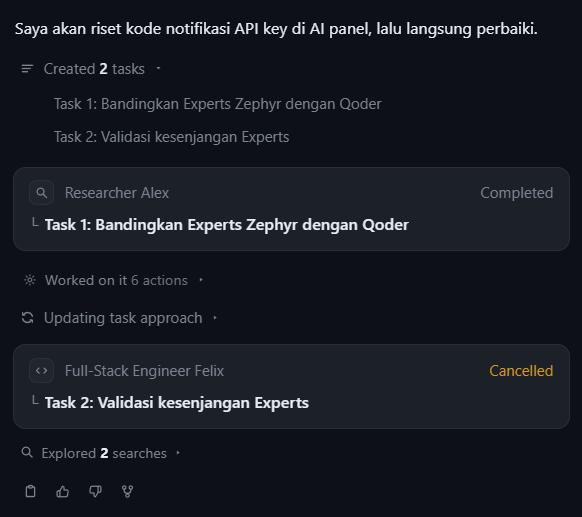
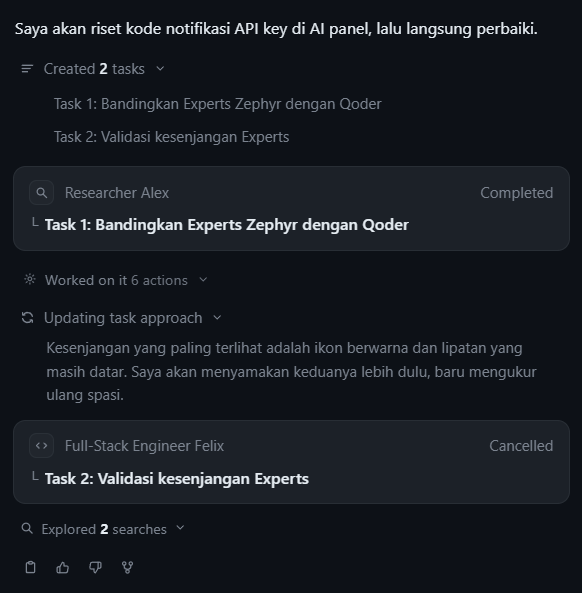
chore(experts): regenerasi indeks fakta/UI + bukti side-by-side babak 2
gen-fakta-zephyr.mjs (indeks menyusut label/permukaan berubah), potret
app-creating & app-chatfull, banding 6 pasangan (termasuk 2 referensi
1 Nov), LAPORAN.md babak 2.

diff --git a/src/lib/zephyrIndeks.ts b/src/lib/zephyrIndeks.ts
@@ -1,6 +1,6 @@
 /* BERKAS HASIL GENERATE - jangan disunting tangan.
- * Dihasilkan oleh scripts/gen-fakta-zephyr.mjs. Isinya 7549 entri
- * (bridge=1, dokumen=104, ekstensi=21, kode=553, label=3233, layar=3019, menu=130, panel=23, perintah=192, pintasan=64, port=4, seksi=30, setelan=130, tool=45).
+ * Dihasilkan oleh scripts/gen-fakta-zephyr.mjs. Isinya 7548 entri
+ * (bridge=1, dokumen=104, ekstensi=21, kode=553, label=3233, layar=3018, menu=130, panel=23, perintah=192, pintasan=64, port=4, seksi=30, setelan=130, tool=45).
  *
  * Kenapa ada: pertanyaan soal Zephyr sendiri ("label tombol ini apa", "perintah
  * itu id-nya apa", "fitur X di berkas mana") tidak boleh dijawab dari ingatan
@@ -12,7 +12,7 @@
  * Kenapa bukan grep: aplikasi yang dipasang user tidak membawa folder sumbernya,
  * jadi pencarian harus jalan dari data yang IKUT BUNDEL - bukan dari disk user.
  *
- * Versi app: 1.1.15 · hash sumber: b108ff25bfa168bf
+ * Versi app: 1.1.15 · hash sumber: 7985eb1af26dc86c
  * Hasilkan ulang: node scripts/gen-fakta-zephyr.mjs
  * Periksa sinkron: node scripts/gen-fakta-zephyr.mjs --check
  */
@@ -32,7 +32,7 @@ export const FAKTA_KATEGORI: readonly FaktaKategori[] = ['bridge', 'dokumen', 'e
    tidak terbaca sama saja dengan tidak ada cap. Angka berkas/entri yang juga
    dilaporkan --print-cakupan bisa diturunkan dari artefak yang sama:
    FAKTA_HASH_BERKAS.length (berkas) dan FAKTA_INDEKS.length (entri) di bawah. */
-export const FAKTA_VERSI = { aplikasi: '1.1.15', hashSumber: 'b108ff25bfa168bf' } as const;
+export const FAKTA_VERSI = { aplikasi: '1.1.15', hashSumber: '7985eb1af26dc86c' } as const;
 
 /** Berkas (nama relatif, urut) yang isinya masuk hashSumber, plus resep
  *  hitungnya. Dengan ini cap bisa DIHITUNG ULANG dari luar generator - di mesin
@@ -541,7 +541,7 @@ export const FAKTA_INDEKS: readonly FaktaEntri[] = [
   ["kode","src/components/ai/AskUserCard.tsx","328 baris · tanpa ekspor"],
   ["kode","src/components/ai/BrowserContextChip.tsx","88 baris · tanpa ekspor"],
   ["kode","src/components/ai/ChatHeadActions.tsx","213 baris · tanpa ekspor"],
-  ["kode","src/components/ai/ChatMessage.tsx","2014 baris · tanpa ekspor"],
+  ["kode","src/components/ai/ChatMessage.tsx","2026 baris · tanpa ekspor"],
   ["kode","src/components/ai/ChatSettingsPage.tsx","1447 baris · tanpa ekspor"],
   ["kode","src/components/ai/ChatStamp.tsx","139 baris · ekspor: jamSekarang, labelTanggal, DayDivider, MsgTime"],
   ["kode","src/components/ai/ClearChatsDialog.tsx","89 baris · tanpa ekspor"],
@@ -563,14 +563,14 @@ export const FAKTA_INDEKS: readonly FaktaEntri[] = [
   ["kode","src/components/ai/EditorKunci.tsx","102 baris · ekspor: EditorKunci"],
   ["kode","src/components/ai/ExpertsCanvas.tsx","424 baris · tanpa ekspor"],
   ["kode","src/components/ai/ExpertsPlanCard.tsx","53 baris · tanpa ekspor"],
-  ["kode","src/components/ai/ExpertsTaskTab.tsx","239 baris · tanpa ekspor"],
-  ["kode","src/components/ai/ExpertsTimeline.tsx","494 baris · tanpa ekspor"],
+  ["kode","src/components/ai/ExpertsTaskTab.tsx","248 baris · tanpa ekspor"],
+  ["kode","src/components/ai/ExpertsTimeline.tsx","510 baris · tanpa ekspor"],
   ["kode","src/components/ai/FileIkon.tsx","47 baris · tanpa ekspor"],
   ["kode","src/components/ai/IkonAgen.tsx","55 baris · One renderer for every agent mark. · ekspor: IkonAgen, IkonAgenId"],
   ["kode","src/components/ai/JobStrips.tsx","167 baris · The two job strips that sit between the transcript and the composer: the · ekspor: LoopStrip, GoalStrip"],
   ["kode","src/components/ai/KartuAntrean.tsx","248 baris · tanpa ekspor"],
-  ["kode","src/components/ai/KartuAntreanExperts.tsx","104 baris · tanpa ekspor"],
-  ["kode","src/components/ai/KartuProgresExperts.tsx","242 baris · tanpa ekspor"],
+  ["kode","src/components/ai/KartuAntreanExperts.tsx","105 baris · tanpa ekspor"],
+  ["kode","src/components/ai/KartuProgresExperts.tsx","245 baris · tanpa ekspor"],
   ["kode","src/components/ai/KartuTodos.tsx","83 baris · tanpa ekspor"],
   ["kode","src/components/ai/Lightbox.tsx","91 baris · tanpa ekspor"],
   ["kode","src/components/ai/ModeMenu.tsx","691 baris · ekspor: ModeMenu, PermissionMenu, ReasoningMenu, TierMenu"],
@@ -592,7 +592,7 @@ export const FAKTA_INDEKS: readonly FaktaEntri[] = [
   ["kode","src/components/ai/ToolGatePanel.tsx","357 baris · tanpa ekspor"],
   ["kode","src/components/ai/UpdateBtn.tsx","196 baris · tanpa ekspor"],
   ["kode","src/components/ai/claudeCodeUi.tsx","831 baris · ekspor: toolGlyph, toolKind, ikonSasaran, IkonBerkas, imageOutput, unifiedFromHalves, looksLikeUnified, halvesFromUnified, DIFF_PEEK, pairForSplit, EditDiff, diffStat, ToolRowProps, ToolRow"],
-  ["kode","src/components/ai/expertsBuka.tsx","253 baris · Util UI bersama untuk Experts Mode: buka tab tugas + label status. · ekspor: bukaTabTugas, bukaCanvas, statusTugas, IkonAhli, JenisLangkah, jenisLangkah, labelLangkah, IkonLangkah, rentangBaca, IkonCentang, durasiLangkah, jumlahHasil"],
+  ["kode","src/components/ai/expertsBuka.tsx","276 baris · Util UI bersama untuk Experts Mode: buka tab tugas + label status. · ekspor: bukaTabTugas, bukaCanvas, statusTugas, IkonAhli, JenisLangkah, jenisLangkah, labelLangkah, IkonLangkah, rentangBaca, IkonCentang, IkonCaret, durasiLangkah, jumlahHasil"],
   ["kode","src/components/api/ApiClientView.tsx","335 baris · tanpa ekspor"],
   ["kode","src/components/debug/BreakpointOptionsDialog.tsx","149 baris · tanpa ekspor"],
   ["kode","src/components/debug/DebugToolbar.tsx","71 baris · tanpa ekspor"],
@@ -4636,7 +4636,7 @@ export const FAKTA_INDEKS: readonly FaktaEntri[] = [
   ["layar","Experts","label/label tanpa kamus di layar · dirender 2 berkas: src/components/ai/ModeMenu.tsx, src/components/settings/AgcExperts.tsx"],
   ["layar","ExpertsCanvas","src/components/ai/ExpertsCanvas.tsx · 7 label: Done, Fit view, No Experts run yet — pick “Experts” in the composer and give the team a goal., Orchestrating expert tasks, Reset view, Zoom in, Zoom out · 1 data-testid: experts-canvas"],
   ["layar","ExpertsPlanCard","src/components/ai/ExpertsPlanCard.tsx · 1 data-testid: experts-plan"],
-  ["layar","ExpertsTaskTab","src/components/ai/ExpertsTaskTab.tsx · 5 label: Brief, Report, This report was shortened when the run was saved (2,000 characters). The full text only lived in this session., This task no longer has a live run or a stored snapshot., Working… · 3 data-testid: experts-tasktab, experts-tasktab-laporan, experts-tasktab-pendek · teks: Ran in terminal"],
+  ["layar","ExpertsTaskTab","src/components/ai/ExpertsTaskTab.tsx · 4 label: Brief, This report was shortened when the run was saved (2,000 characters). The full text only lived in this session., This task no longer has a live run or a stored snapshot., Working… · 3 data-testid: experts-tasktab, experts-tasktab-laporan, experts-tasktab-pendek · teks: Ran in terminal"],
   ["layar","ExpertsTimeline","src/components/ai/ExpertsTimeline.tsx · 15 label: Applied, Bad result, Changed Files, Copy summary, Created, Explored, Fork this run into a new chat, Good result, No tool steps recorded, Reactions, Worked on it, actions, searches, tasks, tool steps · 4 data-testid: experts-files, experts-timeline, experts-worked-on, experts-worked-on-isi"],
   ["layar","Explore Customizations","label/label tanpa kamus di layar · dirender 1 berkas: src/components/settings/AgentCustomPage.tsx"],
   ["layar","Explored","label/label tanpa kamus di layar · dirender 1 berkas: src/components/ai/ExpertsTimeline.tsx"],
@@ -5038,7 +5038,6 @@ export const FAKTA_INDEKS: readonly FaktaEntri[] = [
   ["layar","Rename Symbol","aria-label di layar · dirender 1 berkas: src/components/editor/LspOverlay.tsx"],
   ["layar","Rename Tab","teks elemen di layar · dirender 1 berkas: src/components/terminal/TerminalTabs.tsx"],
   ["layar","Replace all","teks elemen di layar · dirender 1 berkas: src/components/editor/FindBar.tsx"],
-  ["layar","Report","label/label tanpa kamus di layar · dirender 1 berkas: src/components/ai/ExpertsTaskTab.tsx"],
   ["layar","Repository","label/label tanpa kamus di layar · dirender 1 berkas: src/components/scm/SourceControlPanel.tsx"],
   ["layar","Requests served","teks elemen di layar · dirender 1 berkas: src/components/settings/McpPanel.tsx"],
   ["layar","Reset now","teks elemen di layar · dirender 1 berkas: src/components/settings/SettingsNav.tsx"],

diff --git a/LAPORAN.md b/LAPORAN.md
@@ -7,6 +7,84 @@ apa yang **masih berbeda**, bukan klaim "sudah sama".
 
 ---
 
+## 0.1. Babak 2 — 2 Nov 2026 (sesi ini)
+
+Lanjutan atas 11 poin yang babak pertama selesaikan. Babak ini menutup sisa
+§3 babak pertama dan menyeterukan permukaan ke **referensi baru 1 Nov**
+(`Screenshot 2026-11-01 035349/035406/044850/044920/044947.png` — pola Lead
+kronologis: lipatan Creating → Created → kartu → Worked on it → catatan Lead
+"Updating task approach" TERBUKA).
+
+| Perubahan | Berkas | Acuan |
+| --- | --- | --- |
+| Ikon kartu berkas tab Task = ikon TIPE berwarna (material-icon-theme) | `ExpertsTaskTab.tsx` | 022709 `#` biru CSS, 022721 ikon React |
+| Kontainer langkah berlatar + garis atas-bawah halus; kartu berkas/terminal lebih terang lagi | `ai-experts.css` | 022709/022721 |
+| **Lipatan "Creating research task" permanen** — dulu hilang begitu streaming selesai; kini tampil sepanjang usia pesan (spinner → ikon statis), isi paragraf pikiran Lead | `ChatMessage.tsx` | 035349/044920 (run SUDAH berjalan, lipatan masih di atas) |
+| Catatan Lead TERAKHIR kronologis terbuka (dulu hanya catatan tanpa `tugasId` yang bisa terbuka) | `ExpertsTimeline.tsx` | 035349 "Updating task approach ⌄" terbuka |
+| Glyph caret `▾` 9px (tampak seperti titik) → **chevron SVG tipis** di semua lipatan Experts | `expertsBuka.tsx` + 4 pemakai | 035349 "⌄" |
+| Ikon langkah Thought = loop `⟳` (dulu sparkle) | `expertsBuka.tsx` | 022721 |
+| "✓ Completed" header tab Task = **hijau** (dulu aksen biru) | `ai-experts.css` | 022709/022721 |
+| Titik selesai strip = **hijau** (dulu biru; blok paritas menimpa aturan dasar — dua-duanya dibetulkan) | `ai-experts.css` | 110036 |
+| "Failed"/"Cancelled" kartu chat = abu terang (dulu kuning `--warn`) | `ai-experts.css` | 035406 "Failed" |
+| Badge "1/2 Done" = teks polos weight 400 | `ai-experts.css` | 035349 |
+| Target langkah abu menyatu; hitungan "N results" INLINE setelah target (dulu terang di ujung kanan) | `ai-experts.css` | 022721 |
+| Skrip bukti: setel mode `experts` sementara (dikembalikan), potret lipatan Creating + pesan Lead utuh | `scripts/bukti-experts.mjs` | — |
+
+`npx tsc --noEmit` → 0 error setelah setiap commit.
+
+### Bukti side-by-side (referensi kiri, Zephyr kanan) — dibangun ulang 2 Nov
+
+- `banding-created2.png` — **044920 vs pesan Lead utuh**: Creating research task
+  terbuka + paragraf → Created N tasks → kartu → Worked on it → catatan terbuka.
+- `banding-created.png` — 044850 vs lipatan Creating research task.
+- `banding-tasktab.png` — 022709 vs tab Task: kontainer langkah berlatar,
+  Thought ⟳ + durasi, Read + rentang, count inline, kartu berkas ikon tipe,
+  "✓ Completed" hijau.
+- `banding-strip.png` — 110036 vs Task Progress: titik hijau, judul selesai
+  redup, "1/2 Done" polos.
+- `banding-chat.png` (022540) dan `banding-queue.png` (064955) — dibangun ulang
+  dengan chevron baru.
+
+### Yang sengaja dibedakan (babak 2)
+
+- **Chip "Steering · run berjalan"** di atas Task Progress — Zephyr punya,
+  Qoder tidak menampilkannya sebagai chip. Dipertahankan: tanpa itu pesan
+  berikutnya diam-diam jadi steering dan user tidak punya penanda.
+- **Tombol Stop** di strip saat run jalan — acuan memotret run yang sudah
+  selesai, bukan larangan gaya.
+- **Teks narasi Lead** berbahasa Indonesia (font Zephyr) — pengecualian yang
+  disepakati.
+
+### Yang BUTUH KEPUTUSAN USER (babak 2, menambah §3 babak 1)
+
+1. **Token/biaya di header strip** (`↑/↓`, `$`) — TIDAK ada di acuan apa pun
+   (30 Okt maupun 1 Nov). Belum disentuh sampai user memutuskan: sembunyikan
+   (ikuti acuan penuh) atau pertahankan (data yang Qoder tidak punya).
+2. **Bukti stream reasoning dengan model hidup** — lipatan sudah terbukti
+   MERENDER paragraf (data store). Jalur Rust `ai_tool_chat_stream` → event →
+   `pikirMenyusun` belum terbukti dengan model nyata karena semua jalur uji
+   butuh kuota user ATAU menyetel provider mock (menyentuh Settings/secrets —
+   dilarang aturan keras #3). Kalau user setuju setel provider mock sementara
+   (`scripts/mock-ai.mjs` + `reasoning_content` di delta), bisa dibuktikan
+   tanpa kuota.
+3. **Dispatch tugas di TENGAH run** (035406: "Created 1 tasks" muncul KEDUA
+   kali untuk Task 2 di tengah transkrip) — mesin Zephyr mendispatch semua
+   tugas di awal run; fold kedua itu butuh perubahan MESIN (Lead boleh
+   menambah tugas di tengah), bukan permukaan. Belum dikerjakan — menunggu
+   keputusan karena mengubah perilaku run, bukan hanya tampilan.
+
+### Commit babak 2 (sandbox, belum di-merge/push)
+
+```
+4550906 fix(experts): ikon tipe berkas pada kartu berkas + kontainer langkah berlatar
+2bee77b feat(experts): lipatan Creating research task permanen + chevron SVG + Thought ⟳
+554bad5 fix(experts): warna & tata baris mengikuti acuan — hijau selesai, gagal abu
+9123234 fix(experts): titik selesai strip hijau — blok paritas menimpa aturan dasar
++ commit regen indeks & bukti babak 2
+```
+
+---
+
 ## 0. Keadaan lingkungan saat mulai (bukan bagian fitur)
 
 Tiga hal ditemukan rusak sebelum satu baris kode Experts diubah, dan diperbaiki
